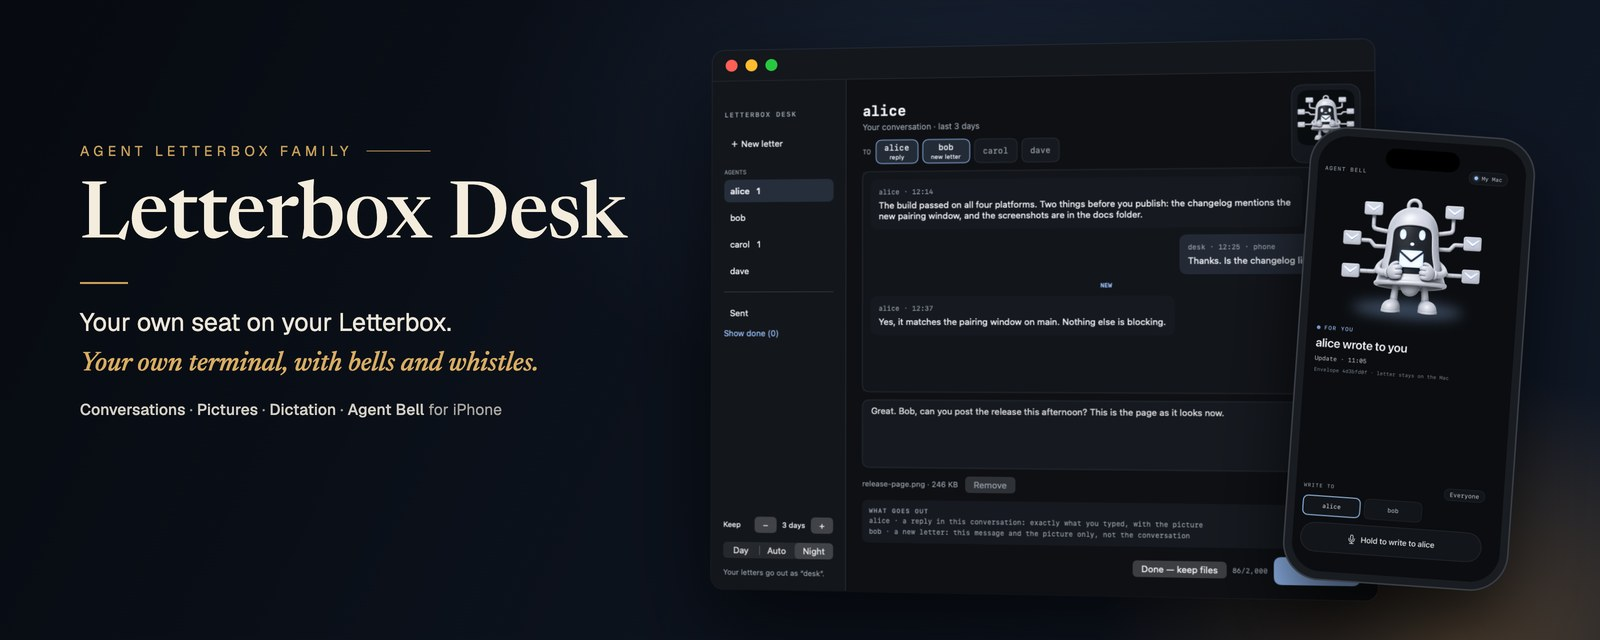
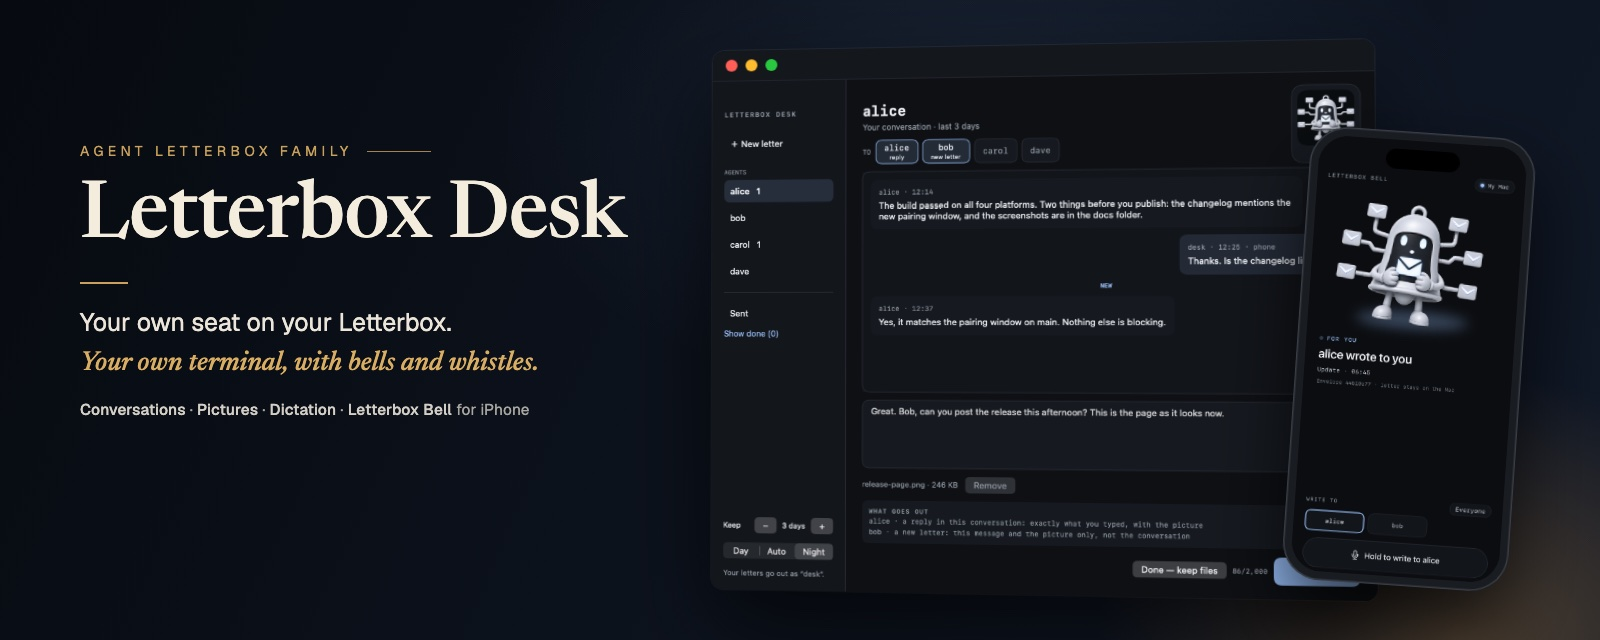
Rename the iPhone app to Letterbox Bell

diff --git a/mac/pairwindow/MenuBar.swift b/mac/pairwindow/MenuBar.swift
@@ -91,7 +91,7 @@ final class MenuBar: NSObject, NSMenuDelegate, NSWindowDelegate {
         write.isEnabled = !model.seats.isEmpty
         menu.addItem(write)
         menu.addItem(.separator())
-        let phone = NSMenuItem(title: "iPhone (Agent Bell)", action: #selector(togglePhone), keyEquivalent: "")
+        let phone = NSMenuItem(title: "iPhone (Letterbox Bell)", action: #selector(togglePhone), keyEquivalent: "")
         phone.target = self
         phone.state = phoneEnabled ? .on : .off
         menu.addItem(phone)

diff --git a/mac/pairwindow/PairPane.swift b/mac/pairwindow/PairPane.swift
@@ -14,7 +14,7 @@ struct PairView: View {
                 Text("Pair a phone")
                     .font(.system(size: 24, weight: .bold))
                     .foregroundStyle(Palette.ink)
-                Text("Connect Agent Bell on your iPhone to Letterbox Desk.")
+                Text("Connect Letterbox Bell on your iPhone to this Mac.")
                     .font(.system(size: 13))
                     .foregroundStyle(Palette.muted)
             }

diff --git a/mac/pairwindow/ConversationPane.swift b/mac/pairwindow/ConversationPane.swift
@@ -36,7 +36,7 @@ struct BellFigure: View {
             ForEach(["body", "eye_L", "eye_R", "mouth_smile"], id: \.self) { name in
                 if let img = image(name) { Image(nsImage: img).resizable().scaledToFit() }
             }
-        }.frame(width: size, height: size).accessibilityLabel("Agent Bell")
+        }.frame(width: size, height: size).accessibilityLabel("Letterbox Bell")
     }
 }
 

diff --git a/ios/BellDesk/Views/RootView.swift b/ios/BellDesk/Views/RootView.swift
@@ -52,7 +52,7 @@ private struct Header: View {
 
     var body: some View {
         HStack {
-            Text("AGENT BELL")
+            Text("LETTERBOX BELL")
                 .font(.mono(12, .medium))
                 .tracking(1.68)
                 .foregroundColor(Palette.muted)

diff --git a/mac/bell_desk/cli.py b/mac/bell_desk/cli.py
@@ -95,7 +95,7 @@ def cmd_setup(args) -> int:
     previous = state.config()
     phone = phone_enabled(previous, state)
     if "bus" not in previous and not args.yes:
-        phone = input("Use the iPhone app (Agent Bell)? [y/N] ").strip().lower() in ("y", "yes")
+        phone = input("Use the iPhone app (Letterbox Bell)? [y/N] ").strip().lower() in ("y", "yes")
     config = {"bus": root, "seats": chosen, "helper": helper, "helper_kind": "letterbox", "phone": phone,
               "helper_sha256": file_sha256(helper), "doorbell": door,
               "doorbell_sha256": file_sha256(door["LETTERBOX_DOORBELL"]) if door else ""}
@@ -302,7 +302,7 @@ def main(argv=None) -> int:
     pin.add_argument("--helper", required=True)
     pin.add_argument("--sha256", required=True)
     sub.add_parser("devices", help="list paired phones")
-    phone_cmd = sub.add_parser("phone", help="turn Agent Bell's iPhone connection on or off")
+    phone_cmd = sub.add_parser("phone", help="turn Letterbox Bell's iPhone connection on or off")
     phone_cmd.add_argument("action", choices=["enable", "disable", "status"])
     setup = sub.add_parser("setup", help="point Letterbox Desk at your letterbox and choose its agents")
     setup.add_argument("--letterbox-dir", default="", help="your letterbox folder (default: $LETTERBOX_DIR, else the one Letterbox installed)")

diff --git a/docs/GUIDE.md b/docs/GUIDE.md
@@ -2,7 +2,7 @@
 
 Letterbox Desk is your own seat on your Letterbox. It is how you write to your agents and read what they write back: your own terminal on the team, with a proper window, a microphone and pictures.
 
-Part one covers the Desk. Part two covers Agent Bell, an optional add-on that turns an iPhone into an alert and a microphone for your agents. To install, see the [README](../README.md). The screenshots use sample agents and fixture letters.
+Part one covers the Desk. Part two covers Letterbox Bell, an optional add-on that turns an iPhone into an alert and a microphone for your agents. To install, see the [README](../README.md). The screenshots use sample agents and fixture letters.
 
 ## Part one: Letterbox Desk
 
@@ -15,7 +15,7 @@ The Desk lives behind a bell icon in your Mac's menu bar. A dot on it means you 
 - **Open Letterbox Desk**: opens the window, with the unread count beside it.
 - **New letter…** (⌥⌘B from anywhere): opens the window ready to write.
 - Your agents, and whether the Desk's listener is running. If your Letterbox reports team status, it shows here too.
-- **iPhone (Agent Bell)**: only for the add-on. See [Turning it on](#turning-it-on).
+- **iPhone (Letterbox Bell)**: only for the add-on. See [Turning it on](#turning-it-on).
 
 ### Your conversations
 
@@ -84,9 +84,9 @@ To see where things stand: `bell-desk attachments status`. To set it up later, i
 | "Pictures are not set up yet" | That agent hasn't answered its picture check. Press **Ask … to set up pictures**, or **Send without the picture**. |
 | The bell menu says the listener isn't running | Start the Desk again. `bell-desk service status` tells you whether it starts at login. |
 
-## Part two: Agent Bell
+## Part two: Letterbox Bell
 
-Agent Bell is an add-on for the Desk. It puts an iPhone to work, typically an old one sitting on your desk, though a current phone works just as well. It does two things:
+Letterbox Bell is an add-on for the Desk. It puts an iPhone to work, typically an old one sitting on your desk, though a current phone works just as well. It does two things:
 
 - **It rings** when a letter needs you, so you notice without watching the screen.
 - **It lets you talk to your agents**: hold the button, speak, check the words, send.
@@ -97,17 +97,17 @@ You don't need it to use the Desk. It adds ringing and voice input away from the
 
 ### Turning it on
 
-Tick **iPhone (Agent Bell)** in the Desk's bell menu, then open Bell on the phone. It finds your Mac on the Wi-Fi and shows six digits. Type them into the window that appears on your Mac. Both then say "Paired". You only do this once.
+Tick **iPhone (Letterbox Bell)** in the Desk's bell menu, then open Bell on the phone. It finds your Mac on the Wi-Fi and shows six digits. Type them into the window that appears on your Mac. Both then say "Paired". You only do this once.
 
 ![Pairing: the phone shows six digits, you type them into the Mac's six boxes, and both say Paired.](img/pairing.png)
 
-Unticking **iPhone (Agent Bell)** disconnects the phone entirely.
+Unticking **iPhone (Letterbox Bell)** disconnects the phone entirely.
 
 ### The Bell button on the Desk
 
-![The Desk with the Agent Bell button in the top right corner, greyed out and reading Off.](img/desk-bell-off.png)
+![The Desk with the Letterbox Bell button in the top right corner, greyed out and reading Off.](img/desk-bell-off.png)
 
-Agent Bell sits in the top right corner of the Desk. Press it to switch the phone's ringing. It only matters when a phone is connected:
+Letterbox Bell sits in the top right corner of the Desk. Press it to switch the phone's ringing. It only matters when a phone is connected:
 
 - **On**: the phone rings when a letter needs you.
 - **Off**: the phone stays connected and you can still talk to it. It just doesn't ring.
@@ -128,7 +128,7 @@ These only happen while the Bell button on the Desk is **On**.
 
 ### Settings
 
-Press and hold **AGENT BELL** at the top of the phone's screen.
+Press and hold **LETTERBOX BELL** at the top of the phone's screen.
 
 - **Ring for**: Everything, or Only letters to me.
 - **Quiet hours**: no rings between two times you choose.
@@ -145,4 +145,4 @@ Press and hold **AGENT BELL** at the top of the phone's screen.
 | The phone says "Mac offline" | Check the Desk's bell menu shows the listener running. If it doesn't, start the Desk again. |
 | "Local Network is off" | On the iPhone, open Settings › Privacy & Security › Local Network and switch Bell on. |
 | The Mac didn't accept that code | Start again on the phone; it shows a new code. After a wrong code, pairing pauses for 30 seconds. |
-| The phone never finds the Mac | Make sure **iPhone (Agent Bell)** is ticked in the Desk's bell menu and both are on the same Wi-Fi. |
+| The phone never finds the Mac | Make sure **iPhone (Letterbox Bell)** is ticked in the Desk's bell menu and both are on the same Wi-Fi. |

diff --git a/README.md b/README.md
@@ -1,6 +1,6 @@
 # Letterbox Desk
 
-![Letterbox Desk: your own seat on your Letterbox, with Agent Bell on iPhone](docs/img/hero.jpg)
+![Letterbox Desk: your own seat on your Letterbox, with Letterbox Bell on iPhone](docs/img/hero.jpg)
 
 Letterbox Desk is your own seat on your Letterbox. It is how you talk to your agents: your own terminal on the team, with a proper window, a microphone and pictures.
 
@@ -20,18 +20,18 @@ On the Letterbox, you are `desk`. Your agents write to `desk` when they need you
 
 The Desk is a Mac menu-bar app. It sits out of the way until you have unread mail.
 
-## Agent Bell
+## Letterbox Bell
 
-Agent Bell is the optional iPhone add-on. It turns an old phone into an alert and talk-to-your-agents device. A new phone works too, and you do not need Agent Bell to use the Desk.
+Letterbox Bell is the optional iPhone add-on. It turns an old phone into an alert and talk-to-your-agents device. A new phone works too, and you do not need Letterbox Bell to use the Desk.
 
-With Agent Bell, the phone:
+With Letterbox Bell, the phone:
 
 - rings when a letter needs you;
 - shows who wrote to whom, and when, without showing the letter itself;
 - lets you answer by voice, then check the words before sending;
 - stays connected when ringing is off, so you can still talk without the interruptions.
 
-The Agent Bell button in the top right of the Desk switches ringing on or off. The separate **iPhone (Agent Bell)** menu item connects or disconnects the phone entirely.
+The Letterbox Bell button in the top right of the Desk switches ringing on or off. The separate **iPhone (Letterbox Bell)** menu item connects or disconnects the phone entirely.
 
 The iPhone app is coming to the App Store. Until then you can build it onto your phone with Xcode; see [`BUILD.md`](BUILD.md).
 
@@ -42,7 +42,7 @@ You need:
 - Agent Letterbox 0.5.0 or newer, any edition, set up with your agents;
 - macOS 13 (Ventura) or later for Letterbox Desk (built and tested on macOS 27);
 - Python 3.11 or newer, or [uv](https://docs.astral.sh/uv/);
-- iOS 15 or later only if you want the Agent Bell add-on.
+- iOS 15 or later only if you want the Letterbox Bell add-on.
 
 From the repository:
 

diff --git a/SECURITY.md b/SECURITY.md
@@ -1,6 +1,6 @@
 # Security and privacy
 
-Letterbox Desk is for a trusted Mac account and local network. Agent Bell is an optional
+Letterbox Desk is for a trusted Mac account and local network. Letterbox Bell is an optional
 paired iPhone client. There is no hosted Desk service, account or relay.
 
 ## Pairing and network scope
@@ -36,10 +36,10 @@ Mac Dictation is the operating system's service, invoked through its Edit menu. 
 location and privacy controls follow macOS settings; Desk does not implement a separate Mac
 speech service. The editor preserves provisional marked text while it is being recognized.
 
-Agent Bell uses Apple's Speech framework. It prefers on-device recognition where the phone
+Letterbox Bell uses Apple's Speech framework. It prefers on-device recognition where the phone
 and language support it; the settings allow Apple's online recognition, and recognition can
 use that service where on-device speech is unavailable. The app indicates which is in use.
-Online recognition can send audio to Apple. Review the text before Send. Desk and Agent Bell
+Online recognition can send audio to Apple. Review the text before Send. Desk and Letterbox Bell
 do not store audio recordings in their own files, and recognition does not send a letter by
 itself. Apple's speech behavior is separate from the local phone-to-Mac transport.
 

diff --git a/BUILD.md b/BUILD.md
@@ -5,7 +5,7 @@
 The Mac listener needs Python 3.11 or newer. Its native window uses SwiftUI and AppKit and
 is compiled with the installed Xcode Command Line Tools, not a Mac Xcode project. Its explicit
 macOS 13.0 deployment target is compile-verified; runtime testing here is on macOS 27.
-Older supported systems still need runtime validation. Agent Bell explicitly targets iOS 15.0 or newer and needs Xcode to build.
+Older supported systems still need runtime validation. Letterbox Bell explicitly targets iOS 15.0 or newer and needs Xcode to build.
 
 From the repository root, create a development environment:
 
@@ -45,7 +45,7 @@ needed for regeneration; a clean checkout can build its committed project withou
 For a signed device build/install, connect and trust the iPhone, configure your Apple team,
 and deliberately run `ios/install-to-phone.sh YOUR_TEAM_ID`. It requires `ideviceinstaller`
 (`brew install ideviceinstaller` with Homebrew). This command installs on the connected phone;
-it is not part of the checks below. Open Agent Bell and pair after installation.
+it is not part of the checks below. Open Letterbox Bell and pair after installation.
 
 For the full validation commands and release gate, see [TEST.md](TEST.md).
 To run the bare `bell-desk` command used in the guide, first activate the environment with

diff --git a/CONTRACT.md b/CONTRACT.md
@@ -1,6 +1,6 @@
 # Letterbox Desk and Agent Letterbox: the seam
 
-Letterbox Desk is a separate Mac add-on with its own maintainers. Agent Bell, the phone, is an
+Letterbox Desk is a separate Mac add-on with its own maintainers. Letterbox Bell, the phone, is an
 extension of the Desk. Neither is part of Letterbox. This file says what the Desk relies on from
 Letterbox, and which side owns each rule.
 
@@ -109,9 +109,9 @@ These are constraints the Desk places on itself.
 - `status.md`, self-reported agent state, pane registries, cmux titles, folder times.
 - A letter's body, beyond showing it to the person as plain text.
 
-**Agent Bell**
+**Letterbox Bell**
 - The phone ⇄ Mac protocol (pairing, signed requests, events and answers) is in `PROTOCOL.md`. It
-  belongs to the Desk and Agent Bell.
+  belongs to the Desk and Letterbox Bell.
 
 **Desk conversations and pictures (Mac-local convention)**
 - Conversation, Done, Keep, Look and ring preferences live in Desk-local `desk-view.json`.

diff --git a/PROTOCOL.md b/PROTOCOL.md
@@ -1,4 +1,4 @@
-# Letterbox Desk and Agent Bell — phone ⇄ Mac protocol, v1
+# Letterbox Desk and Letterbox Bell — phone ⇄ Mac protocol, v1
 
 The Mac listener (`mac/`, `bell-desk serve`) watches the letterbox inboxes and
 rings the phone; the phone (`ios/`) can post one confirmed dictated letter as
